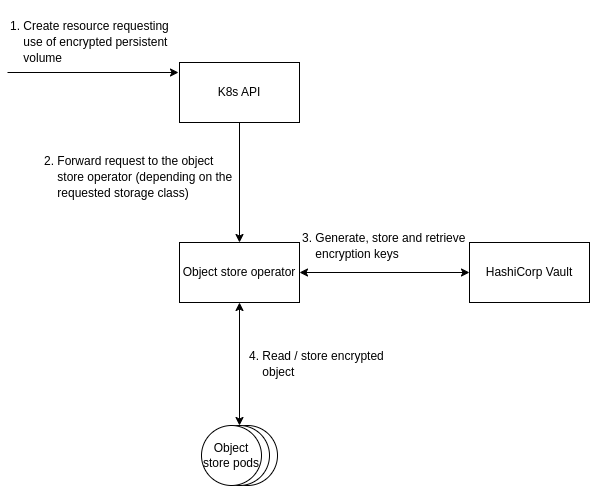
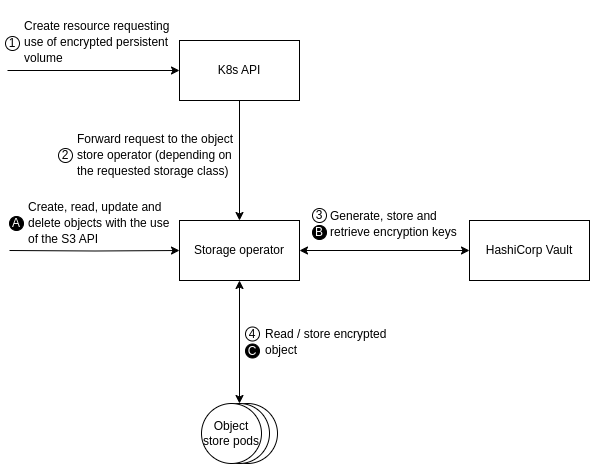
[Data Wrapping] Terminology and interface documentation (#86)
Update existing documentation with additional details regarding object stores, and add sections regarding terminology and interfaces.

Changed region(s): [[0.0, 0.0302, 1.0, 0.9957], [0.3661, 0.9957, 0.4271, 1.0]]

diff --git a/data_wrapping_service/README.md b/data_wrapping_service/README.md
@@ -1,17 +1,17 @@
 # Data Wrapping Service
 
-This service offers server-side object encryption of Kubernetes volumes,
-allowing clients to take advantage of server processing power to secure objects
-at the storage layer (i.e., encryption at rest).
+This service offers server-side encryption of object stores and Kubernetes
+volumes, allowing clients to take advantage of server processing power to
+secure resources at the storage layer (i.e., encryption at rest).
 
 ## Overview
 
-Encrypting Kubernetes volumes offers a robust shield for sensitive data at
-rest. This not only safeguards information from unauthorized individuals who
-gain physical access to storage disks or underlying nodes, but also helps meet
-industry standards and regulations. By limiting the blast radius of security
-incidents, it strengthens operational security and builds trust with
-stakeholders.
+Encrypting object stores and Kubernetes volumes offers a robust shield for
+sensitive data at rest. This not only safeguards information from unauthorized
+individuals who gain physical access to storage disks or underlying nodes, but
+also helps meet industry standards and regulations. By limiting the blast
+radius of security incidents, it strengthens operational security and builds
+trust with stakeholders.
 
 ## Dependencies
 
@@ -19,10 +19,11 @@ To seamlessly integrate the wrapping service within Kubernetes, the target
 orchestration system of the GLACIATION platform, we need the following
 dependencies:
 
-- First-party object store: An object store supporting transparent encryption
-  of persistent volumes within the Kubernetes cluster deployed with a native
-  Kubernetes operator (e.g., [MinIO](https://github.com/minio/operator),
-  [Rook](https://github.com/rook/rook))
+- First-party storage solution: A distributed storage solution supporting
+  transparent encryption of object stores and persistent volumes within the
+  Kubernetes cluster (e.g., [Longhorn](https://longhorn.io/),
+  [MinIO](https://github.com/minio/operator),
+  and [Rook](https://github.com/rook/rook))
 - [HashiCorp Vault](https://github.com/hashicorp/vault): A tool for secrets
   management, encryption as a service, and privileged access management
 
@@ -30,7 +31,89 @@ dependencies:
 
 ![Image displaying the architecture of the service](docs/architecture.png)
 
-Further details about the functioning of object store operators and their
-integration with HashiCorp Vault can be found in the official documentation
-of [MinIO](https://min.io/docs/minio/kubernetes/upstream/administration/server-side-encryption.html)
+Further details about the functioning of storage operators and, where
+available, their integration with HashiCorp Vault can be found in the official
+documentation of [Longhorn](https://longhorn.io/docs/1.7.0/advanced-resources/security/volume-encryption/),
+[MinIO](https://min.io/docs/minio/kubernetes/upstream/administration/server-side-encryption.html),
 and [Rook](https://rook.io/docs/rook/latest-release/Storage-Configuration/Advanced/key-management-system/#vault).
+
+## Terminology
+
+| Term | Description |
+|---|---|
+| Binding | One-to-one mapping between the PersistentVolumeClaim and its PersistentVolume |
+| Block storage | Storage solution backed by a block device |
+| Container Storage Interface (CSI) | Standard for exposing arbitrary block and file storage storage systems to containerized workloads |
+| Container Object Storage Interface (COSI) | Set of abstractions for provisioning and management of object storage |
+| File storage | Storage solution backed by a filesystem |
+| Object storage | Storage solution promoting disaggregation of compute and storage by making data available over the network |
+| PersistentVolume (PV) | Storage resource provisioned by an administrator or dynamically provisioned using Storage Classes |
+| PersistentVolumeClaim (PVC) | Request for storage by a Pod |
+| Provisioning | Process of assigning new storage resources to the cluster |
+| Reclaim policy | What to do with the volume after it has been released of its claim (e.g., retain, delete) |
+| ReadOnlyMany | Volume can be mounted as read-only by many nodes |
+| ReadWriteMany | Volume can be mounted as read-write by many nodes |
+| ReadWriteOnce | Volume can be mounted as read-write by a single node |
+| ReadWriteOncePod | Volume can be mounted as read-write by a single Pod |
+| Simple Storage Service (S3) API | Standard interface for the interaction with object storage services |
+| Storage Class | Describe the class of storage (e.g., encrypted) |
+
+## Object store interfaces
+
+Despite the definition of the Container Object Storage Interface (COSI), not
+all object storage providers support it. This means that depending on the
+specific technology chosen for the implementation of the object store different
+interfaces may be available.
+
+Rook and MinIO provide WebUIs and S3-compatible REST APIs allowing for the
+creation of object store resources. Moreover, by implementing the COSI
+specification, Rook enables the creation of new object store buckets and the
+management of their credentials within Kubernetes through Custom Resource
+Definitions (CRDs). Additional information is available in the
+[Rook documentation](https://rook.io/docs/rook/latest-release/Storage-Configuration/Object-Storage-RGW/object-storage/).
+
+## Kubernetes persistent volume interface
+
+The following showcases basic usage of persistent volume claims by pods. For a
+complete view of the details regarding persistent volumes please refer to the
+official [documentation](https://kubernetes.io/docs/concepts/storage/persistent-volumes/).
+
+### PersistentVolumeClaim
+
+```yaml
+apiVersion: v1
+kind: PersistentVolumeClaim
+metadata:
+  name: my-encrypted-volume-claim
+spec:
+  accessModes:
+    - ReadWriteOnce
+  resources:
+    requests:
+      storage: 4Gi
+  storageClassName: encrypted
+```
+
+### Pod with a PersistentVolumeClaim
+
+Pods access storage by using the claim as a volume. The cluster finds the claim
+in the Pod's namespace and uses it to get the PersistentVolume backing the
+claim. The volume is then mounted to the host and into the Pod.
+
+```yaml
+apiVersion: v1
+kind: Pod
+metadata:
+  name: my-database
+spec:
+  containers:
+    - name: postgres
+      image: postgres
+      volumeMounts:
+      - mountPath: /var/lib/postgresql/data
+        name: my-encrypted-volume
+  volumes:
+    - name: my-encrypted-volume
+      persistentVolumeClaim:
+        claimName: my-encrypted-volume-claim
+```
